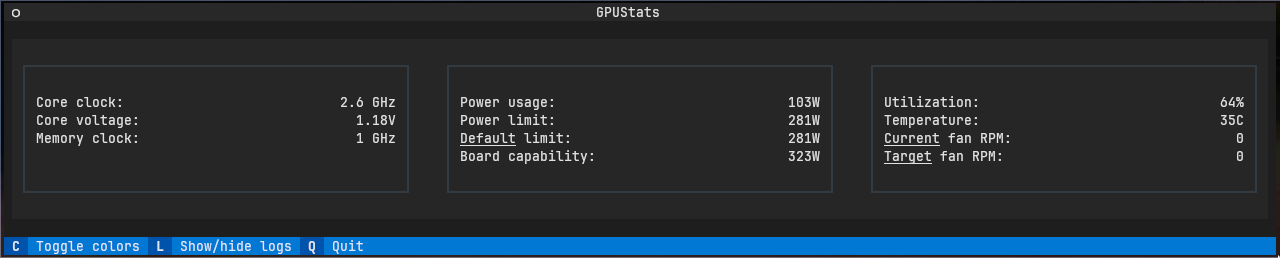
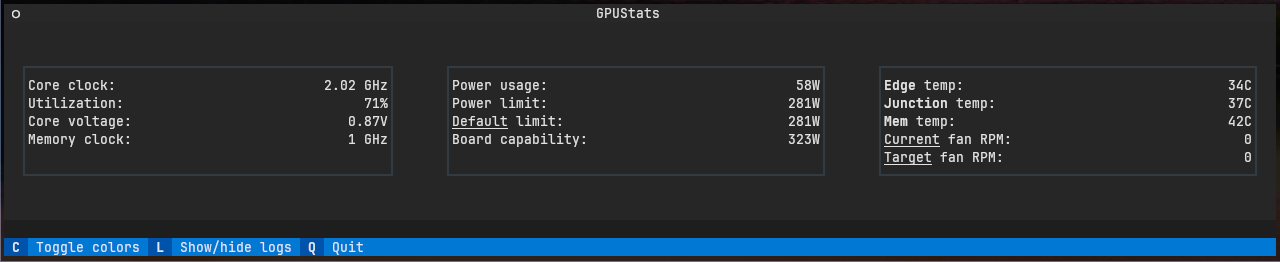
add dynamic (context aware) temperature sources

diff --git a/stats.css b/stats.css
@@ -3,8 +3,8 @@ GPUStatsWidget {
 	grid-size: 3;
 	grid-gutter: 2 4;
 	background: $boost;
-	height: 10;
-	margin: 1;
+	height: 11;
+/*	margin: 1;*/
 	min-width: 50;
 	padding: 1;
 }
@@ -12,7 +12,7 @@ GPUStatsWidget {
 /* for colors, see: https://textual.textualize.io/guide/design/#theme-reference */
 
 .box {
-	padding: 1;
+	margin: 1;
 	height: 100%;
 /*	border: ascii $primary-background;*/
 	border: solid $primary-background;

diff --git a/gpustats.py b/gpustats.py
@@ -135,52 +135,71 @@ class GPUStats(App):
 
 class MiscDisplay(Static):
     """A widget to display misc. GPU stats."""
-
-    # for bringing in the log writing method
-    misc_stats = reactive({"util_pct": 0,
-                           "temp": 0,
-                           "fan_rpm": 0,
-                           "fan_rpm_target": 0})
+    # construct the misc. stats dict; appended by discovered temperature nodes
+    # used to make a 'reactive' object
+    fan_stats = reactive({"fan_rpm": 0,
+                          "fan_rpm_target": 0})
+    temp_stats = reactive({})
 
     def __init__(self, *args, **kwargs):
         super().__init__(*args, **kwargs)
-        self.timer_misc = None
+        self.timer_fan = None
+        self.timer_temp = None
 
     def compose(self) -> ComposeResult:
-        yield Horizontal(Label("Utilization:",), Label("", id="util_pct", classes="statvalue"))
-        yield Horizontal(Label("Temperature:",), Label("", id="temp_c", classes="statvalue"))
+        for temp_node in temp_files:
+            # capitalize the first letter for display
+            caption = temp_node[0].upper() + temp_node[1:]
+            yield Horizontal(Label(f'[bold]{caption}[/] temp:',), Label("", id="temp_" + temp_node, classes="statvalue"))
         yield Horizontal(Label("[underline]Current[/] fan RPM:",), Label("", id="fan_rpm", classes="statvalue"))
         yield Horizontal(Label("[underline]Target[/] fan RPM:",), Label("", id="fan_rpm_target", classes="statvalue"))
 
     def on_mount(self) -> None:
         """Event handler called when widget is added to the app."""
-        self.timer_misc = self.set_interval(1, self.update_misc_stats)
+        self.timer_fan = self.set_interval(1, self.update_fan_stats)
+        self.timer_temp = self.set_interval(1, self.update_temp_stats)
 
-    def update_misc_stats(self) -> None:
-        """Method to update the 'misc' values to current measurements.
-        Utilization % and temperature (C)
+    def update_fan_stats(self) -> None:
+        """Method to update the 'fan' values to current measurements.
 
         Run by a timer created 'on_mount'"""
-        self.misc_stats = {
-            "util_pct": read_stat(src_files['busy_pct']),
-            "temp": int(int(read_stat(src_files['temp_c'])) / 1000),
-            "fan_rpm": read_stat(src_files['fan_rpm']),
-            "fan_rpm_target": read_stat(src_files['fan_rpm_target'])
+        val_update = {
+                "fan_rpm": read_stat(src_files['fan_rpm']),
+                "fan_rpm_target": read_stat(src_files['fan_rpm_target'])
         }
+        self.fan_stats = val_update
 
-    def watch_misc_stats(self, misc_stats: dict) -> None:
+    def update_temp_stats(self) -> None:
+        """Method to update the 'temperature' values to current measurements.
+
+        Run by a timer created 'on_mount'"""
+        val_update = {}
+        for temp_node, temp_file in temp_files.items():
+            # iterate through the discovered temperature nodes
+            # ... updating the dictionary with new stats
+            _content = f'{int(read_stat(temp_file)) / 1000:.0f}C'
+            val_update[temp_node] = _content
+        self.temp_stats = val_update
+
+    def watch_fan_stats(self, fan_stats: dict) -> None:
         """Called when the clocks attribute changes.
          - Updates label values
          - Casting inputs to string to avoid type problems w/ int/None"""
-        self.query_one("#util_pct", Static).update(f"{misc_stats['util_pct']}%")
-        self.query_one("#temp_c", Static).update(f"{misc_stats['temp']}C")
-        self.query_one("#fan_rpm", Static).update(f"{misc_stats['fan_rpm']}")
-        self.query_one("#fan_rpm_target", Static).update(f"{misc_stats['fan_rpm_target']}")
+        self.query_one("#fan_rpm", Static).update(f"{fan_stats['fan_rpm']}")
+        self.query_one("#fan_rpm_target", Static).update(f"{fan_stats['fan_rpm_target']}")
+
+    def watch_temp_stats(self, temp_stats: dict) -> None:
+        """Called when the clocks attribute changes, updates labels"""
+        for temp_node in temp_files:
+            # check first if the reactive object has been updated with keys
+            if temp_node in temp_stats:
+                stat_dict_item = temp_stats[temp_node]
+                self.query_one("#temp_" + temp_node, Static).update(stat_dict_item)
 
 
 class ClockDisplay(Static):
     """A widget to display GPU power stats."""
-    clocks = reactive({"sclk": 0, "mclk": 0, "core_voltage": 0})
+    core_vals = reactive({"sclk": 0, "mclk": 0, "voltage": 0, "util_pct": 0})
 
     def __init__(self, *args, **kwargs):
         super().__init__(*args, **kwargs)
@@ -188,32 +207,35 @@ class ClockDisplay(Static):
 
     def compose(self) -> ComposeResult:
         yield Horizontal(Label("Core clock:",), Label("", id="clk_core_val", classes="statvalue"))
+        yield Horizontal(Label("Utilization:",), Label("", id="util_pct", classes="statvalue"))
         yield Horizontal(Label("Core voltage:",), Label("", id="clk_voltage_val", classes="statvalue"))
         yield Horizontal(Label("Memory clock:"), Label("", id="clk_memory_val", classes="statvalue"))
 
     def on_mount(self) -> None:
         """Event handler called when widget is added to the app."""
-        self.timer_clocks = self.set_interval(1, self.update_clocks)
+        self.timer_clocks = self.set_interval(1, self.update_core_vals)
 
-    def update_clocks(self) -> None:
+    def update_core_vals(self) -> None:
         """Method to update GPU clock values to the current measurements.
         Run by a timer created 'on_mount'"""
 
-        self.clocks = {
+        self.core_vals = {
             "sclk": format_frequency(read_stat(src_files['core_clock'])),
             "mclk": format_frequency(read_stat(src_files['memory_clock'])),
-            "core_voltage": float(
+            "voltage": float(
                 f"{int(read_stat(src_files['core_voltage'])) / 1000:.2f}"
             ),
+            "util_pct": read_stat(src_files['busy_pct']),
         }
 
-    def watch_clocks(self, clocks: dict) -> None:
+    def watch_core_vals(self, core_vals: dict) -> None:
         """Called when the clocks attribute changes
          - Updates label values
          - Casting inputs to string to avoid type problems w/ int/None"""
-        self.query_one("#clk_core_val", Static).update(f"{clocks['sclk']}")
-        self.query_one("#clk_voltage_val", Static).update(f"{clocks['core_voltage']}V")
-        self.query_one("#clk_memory_val", Static).update(f"{clocks['mclk']}")
+        self.query_one("#clk_core_val", Static).update(f"{core_vals['sclk']}")
+        self.query_one("#util_pct", Static).update(f"{core_vals['util_pct']}%")
+        self.query_one("#clk_voltage_val", Static).update(f"{core_vals['voltage']}V")
+        self.query_one("#clk_memory_val", Static).update(f"{core_vals['mclk']}")
 
 
 class PowerDisplay(Static):
@@ -283,5 +305,27 @@ if __name__ == "__main__":
                  'fan_rpm': path.join(hwmon_dir, "fan1_input"),
                  'fan_rpm_target': path.join(hwmon_dir, "fan1_target"),
                  }
+    # notes:
+    #   assumptions are made that freq{1,2}_input files are sclk/mclk
+    #   contents of files named freq{1,2}_label can determine this reliably
+    #   similarly:
+    #      'in0_input' has a peer named 'in0_label'
+    #      should contain 'vddgfx' to indicate core voltage
+    #   TODO: implement ^
+    #
+    # determine temperature nodes, construct an empty dict to store them
+    temp_files = {}
+    temp_node_labels = glob.glob(path.join(hwmon_dir, "temp*_label"))
+    for temp_node_label_file in temp_node_labels:
+        # determine the base node id, eg: temp1
+        # construct the path to the file that will label it. ie: edge/junction
+        temp_node_id = path.basename(temp_node_label_file).split('_')[0]
+        temp_node_value_file = path.join(hwmon_dir, f"{temp_node_id}_input")
+        with open(temp_node_label_file, 'r', encoding='utf-8') as _node:
+            temp_node_name = _node.read().strip()
+        print(f'found temp: {temp_node_name} (id: {temp_node_id})')
+        # add the node name/type and the corresponding temp file to the dict
+        temp_files[temp_node_name] = temp_node_value_file
+
     app = GPUStats()
     app.run()

diff --git a/README.md b/README.md
@@ -2,7 +2,10 @@
 
 Simple TUI _(using [Textual](https://textual.textualize.io/))_ that shows AMD GPU statistics:
 - GPU Utilization
-- Temperature
+- Temperatures _(as applicable)_
+    - Edge
+    - Junction
+    - Memory
 - Core clock
 - Core voltage
 - Memory clock
